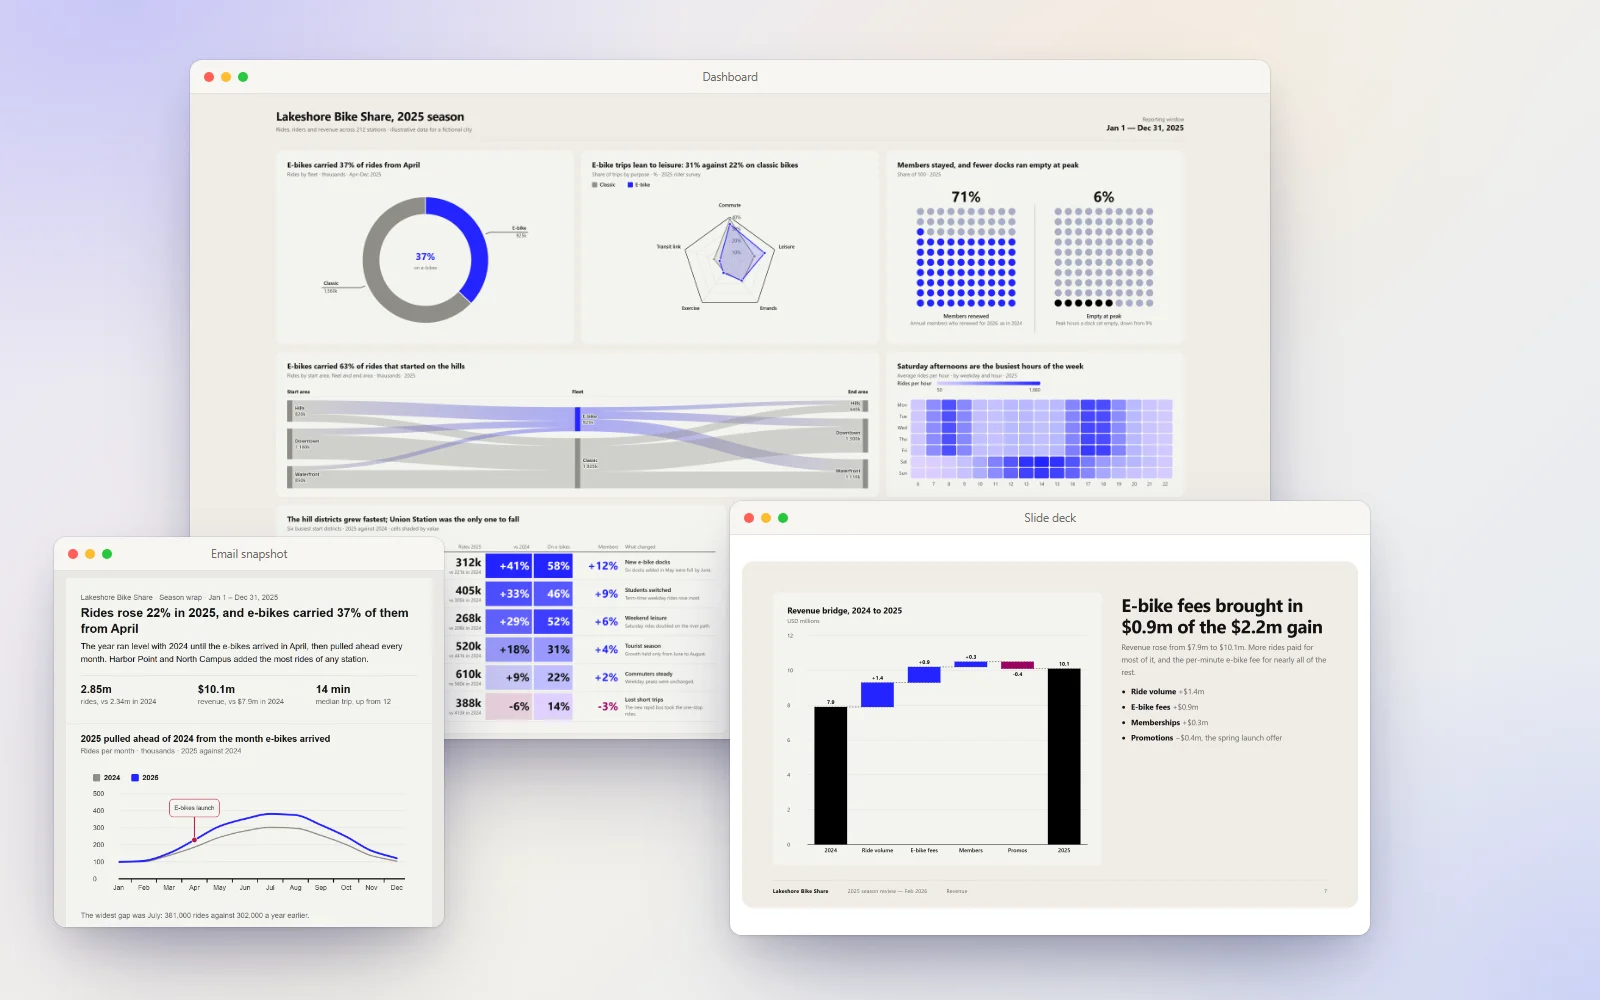
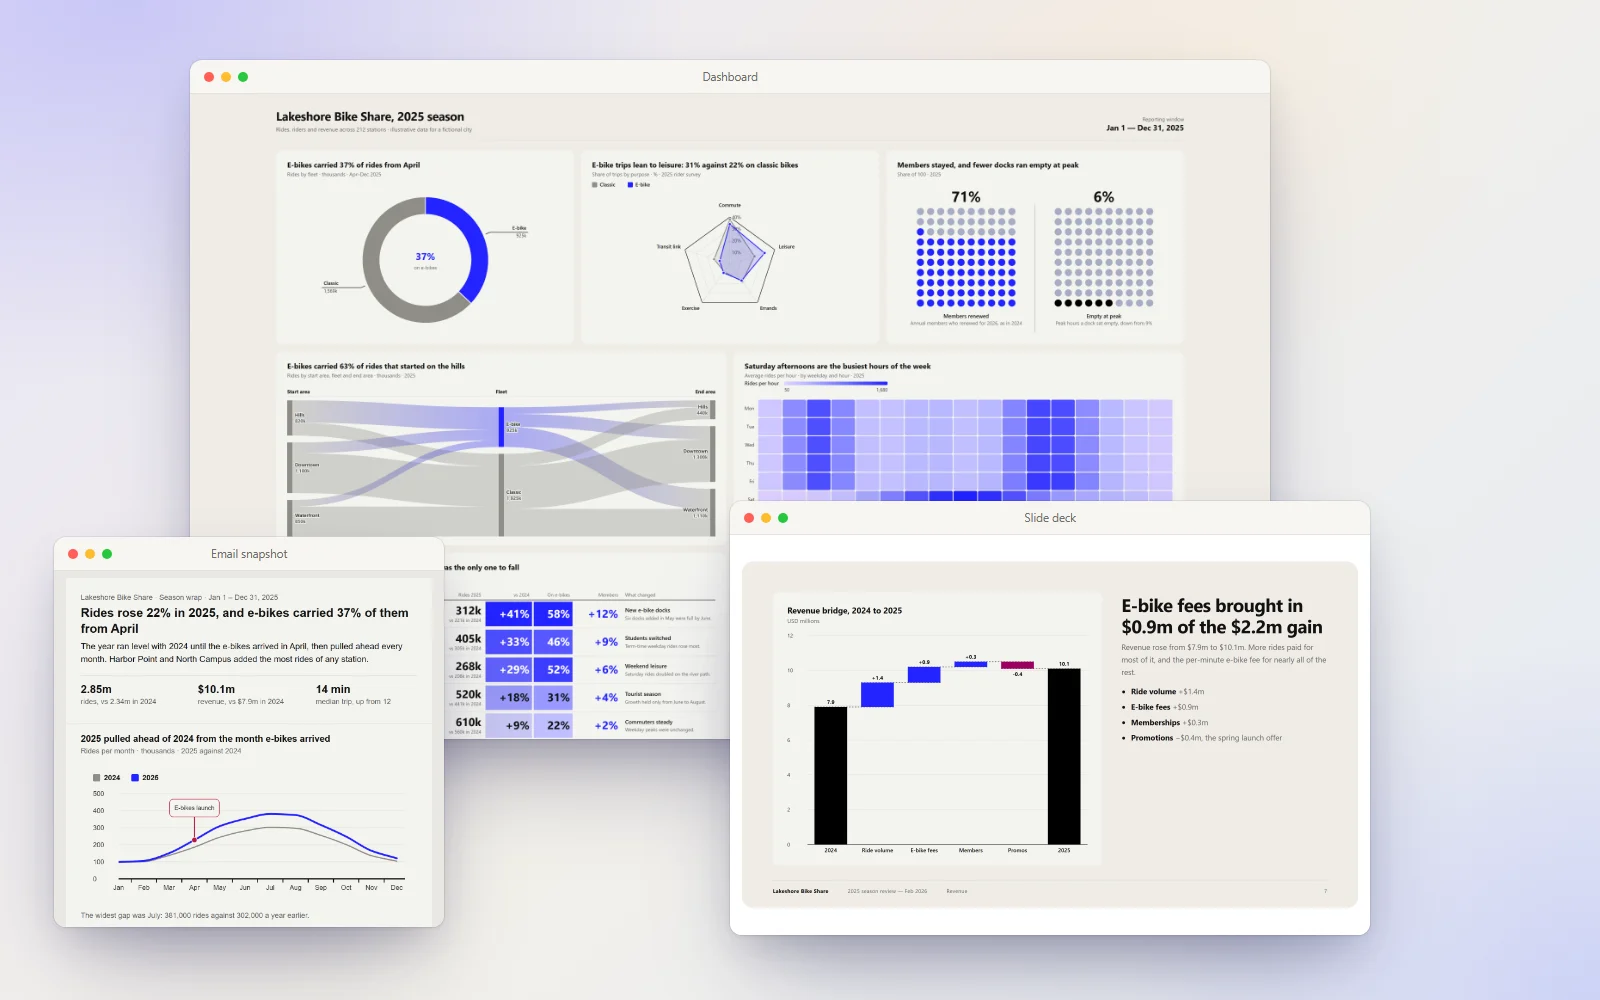
docs(readme): rebuild the README images to the shape-first rule
The README dashboard put its three-stage Sankey in a w8 row, a 4.2:1
band on that page's 2176px grid. It now pairs with the 24-hour heatmap
at w6 and 440px: 2.35:1 for the flow, and square heatmap cells. The
editable page shares the grid and gets the same change. Rebuilt with
docs/readme/build.mjs: dashboard, editable and hero, plus their docs-site
WebP copies and og.png. Both pages pass the layout audit.

check-page.js now catches what this page slipped past:
- A chart with its own pixel height in a flow row is checked as the
  fixed box it is. The README pages size their first row this way, and
  the old regex also missed a height that came first in the style
  attribute.
- A two- or three-stage sankey past 3:1 fails, which matches the w6
  rule in layout-dashboard.md. Stages come from `stages`, else from the
  longest path through the links.

Changed region(s): [[0.1562, 0.341, 0.75, 0.744]]

diff --git a/plugins/chart-dashboard/skills/chart-dashboard/scripts/check-page.js b/plugins/chart-dashboard/skills/chart-dashboard/scripts/check-page.js
@@ -435,7 +435,18 @@ function cellOf(id) {
   if (!w) return null;
   const h = +((/\bh(\d+)\b/.exec(cls) || [])[1] || 1);
   const flow = /^class="bento[^"]*\bflow\b/.test(code.slice(gridAt, gridAt + 60));
-  return { grid: 'bento', cls: cls.replace(/\bcell\b\s*/, '').trim(), w, flow,
+  // A chart given its own pixel height inside a flow row is a fixed box, not
+  // a content-sized one: a donut at style="height:440px" in a w4 flow cell is
+  // as much a shape as one in a 340px grid row, and is checked as one.
+  const tagAt = code.lastIndexOf('<', at);
+  const tag = code.slice(tagAt, code.indexOf('>', at) + 1);
+  const fixed = flow ? +((/style="(?:[^"]*?[;\s])?height\s*:\s*([\d.]+)px/.exec(tag) || [])[1] || 0) : 0;
+  const name = cls.replace(/\bcell\b\s*/, '').trim();
+  if (fixed) {
+    return { grid: 'bento', cls: name + ' at ' + fixed + 'px', w, flow: false,
+      px: cellPx(w), py: fixed, pxOf: cellPx, pyOf: () => fixed };
+  }
+  return { grid: 'bento', cls: name, w, flow,
     px: cellPx(w), py: flow ? null : cellPy(h), pxOf: cellPx, pyOf: cellPy };
 }
 
@@ -685,7 +696,25 @@ if (!sized.length) {
   // At the template's 1600px: w4 1.5, w6 2.3, w8 3.1, w12 4.7; h2 halves them.
   const SHAPE = { roundMax: 1.9, roundMin: 0.8, plotMin: 0.85, strip: 2.6, band: 3.8,
     // Values across that earn a strip / a band, per plotted chart.
-    line: [24, 40], column: [12, 20], waterfall: [12, 20], listedMax: 6 };
+    line: [24, 40], column: [12, 20], waterfall: [12, 20], listedMax: 6,
+    sankeyShort: 3, sankeyBand: 3.0 };
+  const sankeyDepth = cfg => {
+    const s = Array.isArray(cfg.series) ? cfg.series.find(isObj) : null;
+    const links = s && Array.isArray(s.data) ? s.data.map(l => Array.isArray(l) ? [l[0], l[1]] : isObj(l) ? [l.from, l.to] : null).filter(Boolean) : [];
+    if (!links.length) return 0;
+    const out = new Map();
+    for (const [a, b] of links) { if (!out.has(a)) out.set(a, []); out.get(a).push(b); }
+    const memo = new Map();
+    const depth = (n, seen) => {
+      if (memo.has(n)) return memo.get(n);
+      if (seen.has(n)) return 1;   // a cycle: count it once rather than loop
+      seen.add(n);
+      const d = 1 + Math.max(0, ...(out.get(n) || []).map(m => depth(m, seen)));
+      seen.delete(n); memo.set(n, d);
+      return d;
+    };
+    return Math.max(...[...out.keys()].map(n => depth(n, new Set())));
+  };
   const ROUND = /^(donut|pie|radar|packedBubble|waffle)$/;
   const PLOTTED = /^(line|column|histogram|histogramPercent|histogramCumulative|waterfall|scatter|bubble)$/;
   const LISTED = /^(bar|barList|dumbbell)$/;
@@ -736,6 +765,14 @@ if (!sized.length) {
       const n = across(c);
       if (r > SHAPE.strip && n && n <= SHAPE.listedMax) {
         shapeMisfit.push(where + ': ' + n + ' rows in a wide band — width only adds bar length  → w4 or w6');
+      }
+    } else if (c.type === 'sankey') {
+      // Columns of nodes: the stage headers when given, else the longest path
+      // through the links. Two or three columns spread across a band are long
+      // thin ribbons with the nodes squashed to slivers.
+      const n = Array.isArray(c.cfg.stages) ? c.cfg.stages.length : sankeyDepth(c.cfg);
+      if (n && n <= SHAPE.sankeyShort && r > SHAPE.sankeyBand) {
+        shapeMisfit.push(where + ': ' + n + ' stages stretched into a band  → w6, or a taller cell (layout-dashboard.md § The four shape families)');
       }
     }
   }

diff --git a/docs/readme/pages/dashboard.html b/docs/readme/pages/dashboard.html
@@ -97,17 +97,19 @@
   <!-- Nothing here is a single dominant trend: the season is a set of
        co-equal findings about one change (the e-bike fleet), so the top row
        is three equal cells. It is content-sized at 440px because the radar
-       needs more height than a 340px row leaves it. The flows need width;
-       the district scorecard sizes itself, with the revenue bridge beside it
-       at the table's height. -->
+       needs more height than a 340px row leaves it. The three-stage flow and
+       the 24-hour heatmap pair at w6 and the same 440px: across a w8 row the
+       flow would be a 4:1 band, and this height gives the heatmap square
+       cells. The district scorecard sizes itself, with the revenue bridge
+       beside it at the table's height. -->
   <div class="bento flow">
     <div class="cell w4"><div class="chart" id="c-mix" style="height:440px"></div></div>
     <div class="cell w4"><div class="chart" id="c-purpose" style="height:440px"></div></div>
     <div class="cell w4"><div class="chart" id="c-service" style="height:440px"></div></div>
   </div>
-  <div class="bento" style="margin-top:16px">
-    <div class="cell w8"><div class="chart" id="c-flow"></div></div>
-    <div class="cell w4"><div class="chart" id="c-hours"></div></div>
+  <div class="bento flow">
+    <div class="cell w6"><div class="chart" id="c-flow" style="height:440px"></div></div>
+    <div class="cell w6"><div class="chart" id="c-hours" style="height:440px"></div></div>
   </div>
   <div class="bento flow">
     <div class="cell w6"><div class="chart" id="c-districts"></div></div>

diff --git a/plugins/chart-dashboard/skills/chart-dashboard/tests/check-page-fit.test.js b/plugins/chart-dashboard/skills/chart-dashboard/tests/check-page-fit.test.js
@@ -187,3 +187,22 @@ test('tables in a flow row are not held to a shape', () => {
   assert.ok(check('table-flow-shape', { cell: 'w12', flow: true,
     call: `Charts.table('c1', { columns: [], rows: [] });` }, SHAPE).passed);
 });
+
+test('a chart with its own pixel height in a flow row is held to that box', () => {
+  const file = path.join(dir, 'donut-flow-fixed.html');
+  fs.writeFileSync(file, `${CSS}<div class="page"><div class="bento flow">` +
+    `<div class="cell w8"><div class="chart" id="c1" style="height:300px"></div></div></div></div>\n<script>\n${donut}\n</script>\n`);
+  const out = spawnSync(process.execPath, [SCRIPT, file], { encoding: 'utf8' }).stdout;
+  const line = out.split('\n').find(l => l.includes(SHAPE));
+  assert.match(line, /FAIL .*c1 \(donut\) in w8 at 300px/);
+});
+
+test('a three-stage sankey across a band fails; in a w6 it passes', () => {
+  const call = `Charts.sankey('c1', { title: 'T', stages: ['A', 'B', 'C'], series: [{ data: [['a', 'b', 1], ['b', 'c', 1]] }] });`;
+  const r = check('sankey3-w12', { cell: 'w12', call }, SHAPE);
+  assert.ok(!r.passed, r.line);
+  assert.match(r.line, /3 stages stretched into a band {2}→ w6/);
+  assert.ok(check('sankey3-w6', { cell: 'w6', call }, SHAPE).passed);
+  // Without stage headers the depth comes from the links.
+  assert.ok(!check('sankey3-links-w12', { cell: 'w12', call: call.replace("stages: ['A', 'B', 'C'], ", '') }, SHAPE).passed);
+});

diff --git a/docs/readme/pages/editable.html b/docs/readme/pages/editable.html
@@ -96,9 +96,9 @@
     <div class="cell w4"><div class="chart" id="c-purpose" style="height:440px"></div></div>
     <div class="cell w4"><div class="chart" id="c-service" style="height:440px"></div></div>
   </div>
-  <div class="bento" style="margin-top:16px">
-    <div class="cell w8"><div class="chart" id="c-flow"></div></div>
-    <div class="cell w4"><div class="chart" id="c-hours"></div></div>
+  <div class="bento flow">
+    <div class="cell w6"><div class="chart" id="c-flow" style="height:440px"></div></div>
+    <div class="cell w6"><div class="chart" id="c-hours" style="height:440px"></div></div>
   </div>
   <div class="bento flow">
     <div class="cell w6"><div class="chart" id="c-districts"></div></div>

diff --git a/plugins/chart-dashboard/skills/chart-dashboard/references/layout-dashboard.md b/plugins/chart-dashboard/skills/chart-dashboard/references/layout-dashboard.md
@@ -135,7 +135,9 @@ stacked `w4`s.
 `check-page.js` runs these sums. "Bars sized to their cell" checks column and
 bar counts and names the span that fits. "Cells match their chart's shape"
 fails a round chart in a landscape cell, a plotted chart in a strip its
-x-axis hasn't earned, and a short list in a wide band.
+x-axis hasn't earned, a short list in a wide band, and a two- or three-stage
+sankey stretched past 3:1. A chart given its own pixel height in a flow row
+is checked as the fixed box it is.
 
 ## Then compose the rows from those cells
 
